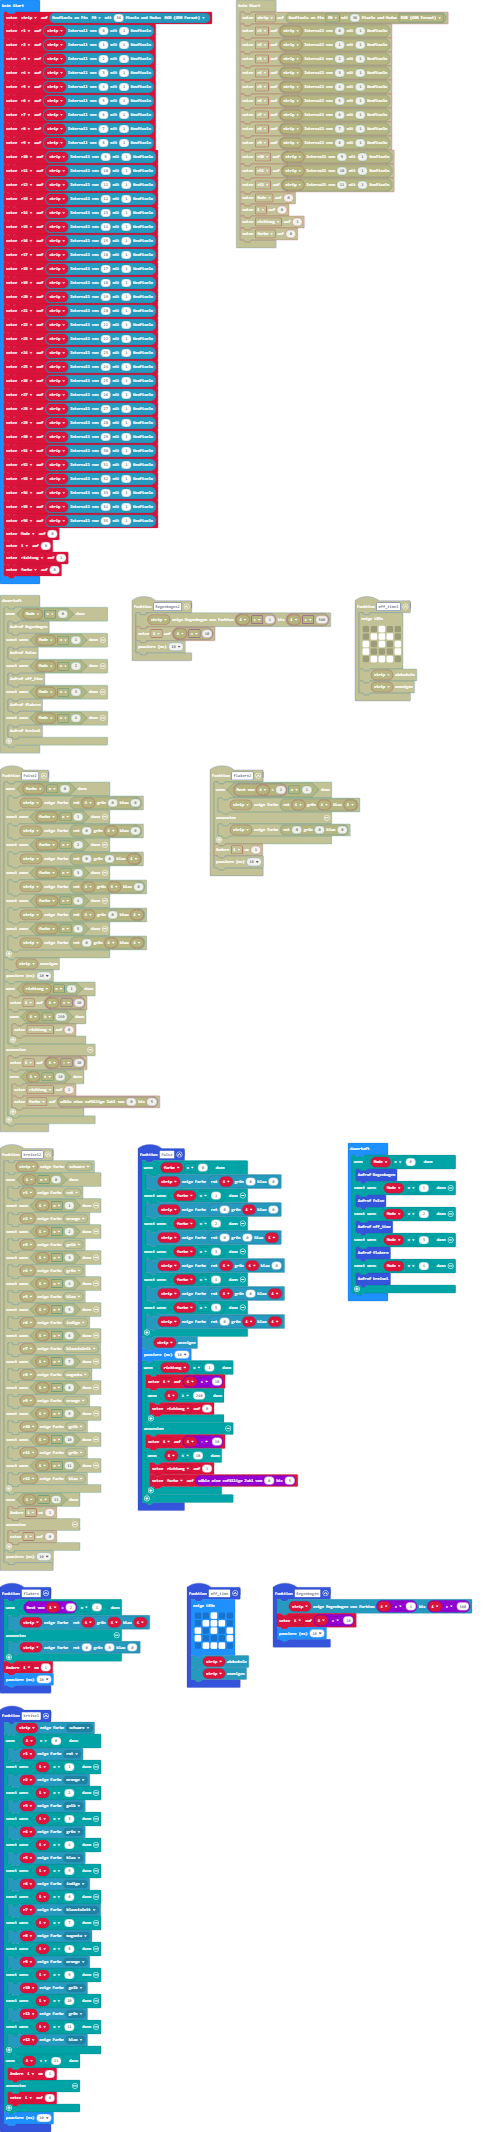
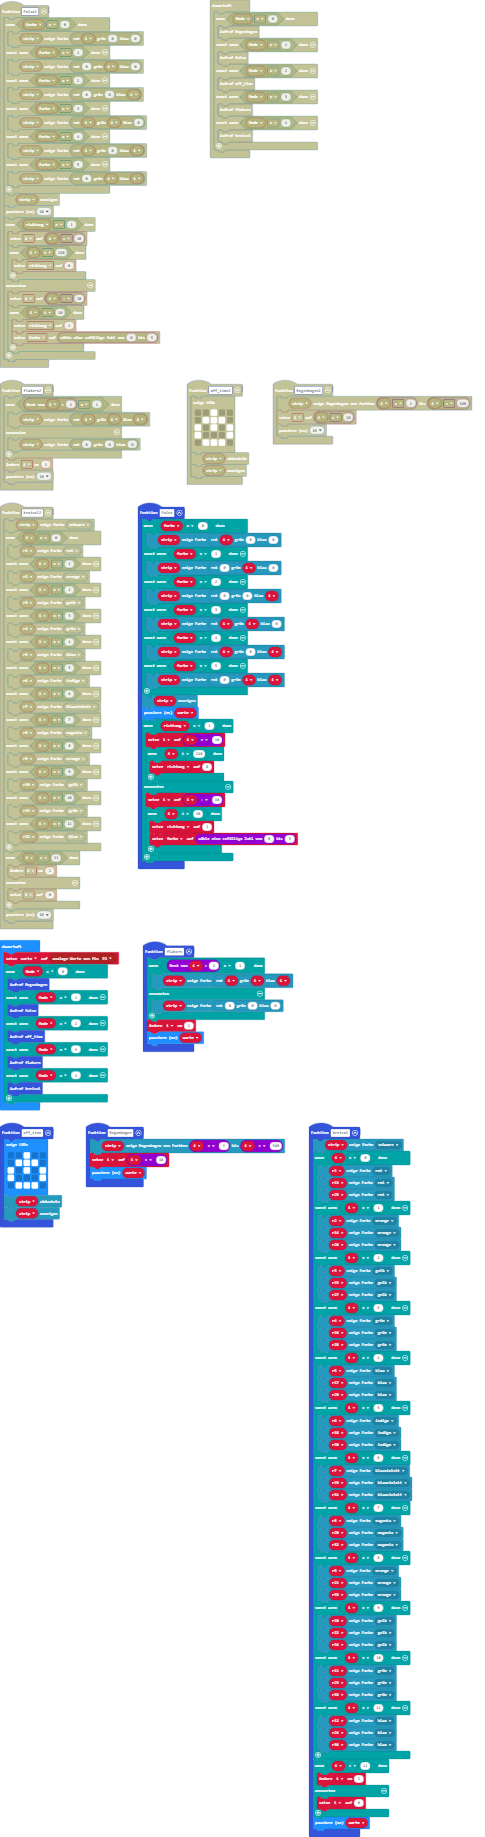
geschwindigkeit durch potenziometer

diff --git a/main.ts b/main.ts
@@ -1,22 +1,17 @@
-input.onButtonPressed(Button.A, function on_button_pressed_a() {
-    
+input.onButtonPressed(Button.A, function () {
     if (Mode < 4) {
         Mode += 1
         i = 0
         richtung = 1
         farbe = 0
     }
-    
 })
-function Regenbogen() {
-    
+function Regenbogen () {
     strip.showRainbow(i + 1, i + 360)
     i = i + 10
-    basic.pause(10)
+    basic.pause(warte)
 }
-
-function Pulse() {
-    
+function Pulse () {
     if (farbe == 0) {
         strip.showColor(neopixel.rgb(i, 0, 0))
     } else if (farbe == 1) {
@@ -30,28 +25,22 @@ function Pulse() {
     } else if (farbe == 5) {
         strip.showColor(neopixel.rgb(0, i, i))
     }
-    
     strip.show()
-    basic.pause(10)
+    basic.pause(warte)
     if (richtung == 1) {
         i = i + 10
         if (i >= 240) {
             richtung = 0
         }
-        
     } else {
         i = i - 10
         if (i <= 10) {
             richtung = 1
             farbe = randint(0, 5)
         }
-        
     }
-    
 }
-
-function kreisel() {
-    
+function kreisel () {
     strip.showColor(neopixel.colors(NeoPixelColors.Black))
     if (i == 0) {
         r1.showColor(neopixel.colors(NeoPixelColors.Red))
@@ -102,27 +91,22 @@ function kreisel() {
         r24.showColor(neopixel.colors(NeoPixelColors.Blue))
         r36.showColor(neopixel.colors(NeoPixelColors.Blue))
     }
-    
     if (i < 11) {
         i += 1
     } else {
         i = 0
     }
-    
-    basic.pause(10)
+    basic.pause(warte)
 }
-
-input.onButtonPressed(Button.B, function on_button_pressed_b() {
-    
+input.onButtonPressed(Button.B, function () {
     if (Mode > 0) {
         Mode += -1
         i = 0
         richtung = 1
         farbe = 0
     }
-    
 })
-function off_time() {
+function off_time () {
     basic.showLeds(`
         . . # . .
         . # # # .
@@ -133,36 +117,57 @@ function off_time() {
     strip.easeBrightness()
     strip.show()
 }
-
-function flakern() {
-    
+function flakern () {
     if (i % 2 == 1) {
         strip.showColor(neopixel.rgb(i, i, i))
     } else {
         strip.showColor(neopixel.rgb(0, 0, 0))
     }
-    
     i += 1
-    basic.pause(10)
+    basic.pause(warte)
 }
-
+let warte = 0
 let farbe = 0
 let richtung = 0
 let i = 0
 let Mode = 0
-let r12 : neopixel.Strip = null
-let r11 : neopixel.Strip = null
-let r10 : neopixel.Strip = null
-let r9 : neopixel.Strip = null
-let r8 : neopixel.Strip = null
-let r7 : neopixel.Strip = null
-let r6 : neopixel.Strip = null
-let r5 : neopixel.Strip = null
-let r4 : neopixel.Strip = null
-let r3 : neopixel.Strip = null
-let r2 : neopixel.Strip = null
-let r1 : neopixel.Strip = null
-let strip : neopixel.Strip = null
+let r36: neopixel.Strip = null
+let r35: neopixel.Strip = null
+let r34: neopixel.Strip = null
+let r33: neopixel.Strip = null
+let r32: neopixel.Strip = null
+let r31: neopixel.Strip = null
+let r30: neopixel.Strip = null
+let r29: neopixel.Strip = null
+let r28: neopixel.Strip = null
+let r27: neopixel.Strip = null
+let r26: neopixel.Strip = null
+let r25: neopixel.Strip = null
+let r24: neopixel.Strip = null
+let r23: neopixel.Strip = null
+let r22: neopixel.Strip = null
+let r21: neopixel.Strip = null
+let r20: neopixel.Strip = null
+let r19: neopixel.Strip = null
+let r18: neopixel.Strip = null
+let r17: neopixel.Strip = null
+let r16: neopixel.Strip = null
+let r15: neopixel.Strip = null
+let r14: neopixel.Strip = null
+let r13: neopixel.Strip = null
+let r12: neopixel.Strip = null
+let r11: neopixel.Strip = null
+let r10: neopixel.Strip = null
+let r9: neopixel.Strip = null
+let r8: neopixel.Strip = null
+let r7: neopixel.Strip = null
+let r6: neopixel.Strip = null
+let r5: neopixel.Strip = null
+let r4: neopixel.Strip = null
+let r3: neopixel.Strip = null
+let r2: neopixel.Strip = null
+let r1: neopixel.Strip = null
+let strip: neopixel.Strip = null
 strip = neopixel.create(DigitalPin.P0, 36, NeoPixelMode.RGB)
 r1 = strip.range(0, 1)
 r2 = strip.range(1, 1)
@@ -176,35 +181,36 @@ r9 = strip.range(8, 1)
 r10 = strip.range(9, 1)
 r11 = strip.range(10, 1)
 r12 = strip.range(11, 1)
-let r13 = strip.range(12, 1)
-let r14 = strip.range(13, 1)
-let r15 = strip.range(14, 1)
-let r16 = strip.range(15, 1)
-let r17 = strip.range(16, 1)
-let r18 = strip.range(17, 1)
-let r19 = strip.range(18, 1)
-let r20 = strip.range(19, 1)
-let r21 = strip.range(20, 1)
-let r22 = strip.range(21, 1)
-let r23 = strip.range(22, 1)
-let r24 = strip.range(23, 1)
-let r25 = strip.range(24, 1)
-let r26 = strip.range(25, 1)
-let r27 = strip.range(26, 1)
-let r28 = strip.range(27, 1)
-let r29 = strip.range(28, 1)
-let r30 = strip.range(29, 1)
-let r31 = strip.range(30, 1)
-let r32 = strip.range(31, 1)
-let r33 = strip.range(32, 1)
-let r34 = strip.range(33, 1)
-let r35 = strip.range(34, 1)
-let r36 = strip.range(35, 1)
+r13 = strip.range(12, 1)
+r14 = strip.range(13, 1)
+r15 = strip.range(14, 1)
+r16 = strip.range(15, 1)
+r17 = strip.range(16, 1)
+r18 = strip.range(17, 1)
+r19 = strip.range(18, 1)
+r20 = strip.range(19, 1)
+r21 = strip.range(20, 1)
+r22 = strip.range(21, 1)
+r23 = strip.range(22, 1)
+r24 = strip.range(23, 1)
+r25 = strip.range(24, 1)
+r26 = strip.range(25, 1)
+r27 = strip.range(26, 1)
+r28 = strip.range(27, 1)
+r29 = strip.range(28, 1)
+r30 = strip.range(29, 1)
+r31 = strip.range(30, 1)
+r32 = strip.range(31, 1)
+r33 = strip.range(32, 1)
+r34 = strip.range(33, 1)
+r35 = strip.range(34, 1)
+r36 = strip.range(35, 1)
 Mode = 0
 i = 0
 richtung = 1
 farbe = 0
-basic.forever(function on_forever() {
+basic.forever(function () {
+    warte = pins.analogReadPin(AnalogPin.P2)
     if (Mode == 0) {
         Regenbogen()
     } else if (Mode == 1) {
@@ -216,5 +222,4 @@ basic.forever(function on_forever() {
     } else if (Mode == 4) {
         kreisel()
     }
-    
 })
